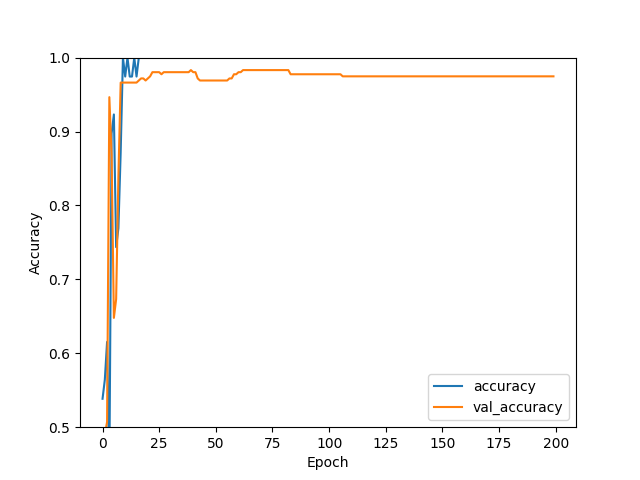
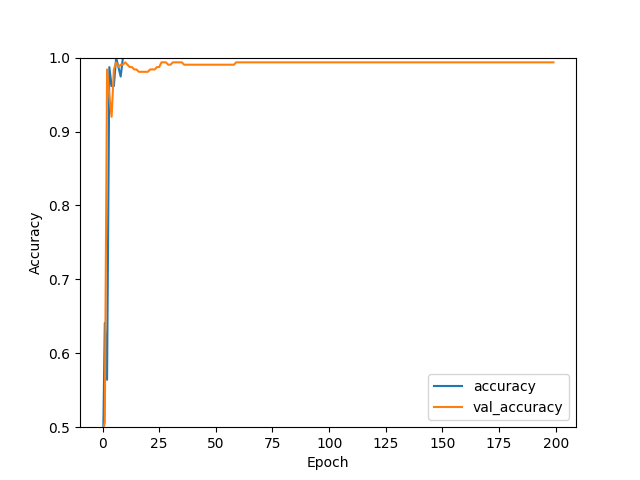
setup inapp acoustic localization

Changed region(s): [[0.1562, 0.125, 0.875, 0.9062]]

diff --git a/frontend_v1/app/src/main/java/com/example/myapplication/LabelWindow.java b/frontend_v1/app/src/main/java/com/example/myapplication/LabelWindow.java
@@ -55,7 +55,6 @@ public class LabelWindow extends Activity {
     private CyclicBarrier cyclicBarrier = new CyclicBarrier(2);
     @Override
     public void onBackPressed() {
-        System.out.println("Hey");
         if (!training) {
             super.onBackPressed();
         }
@@ -71,6 +70,7 @@ public class LabelWindow extends Activity {
         TextView building_label = (TextView) findViewById(R.id.label_of_building);
         TextView sent_label = (TextView) findViewById(R.id.sent_label);
         Button button_start = (Button) findViewById(R.id.button_submit);
+        Button button_train = (Button) findViewById(R.id.button_train);
         TextView progress = (TextView) findViewById(R.id.textView4);
 
         // get server IP
@@ -100,11 +100,13 @@ public class LabelWindow extends Activity {
             }
         }
 
-        Handler handler = new Handler();
         button_start.setOnClickListener(new View.OnClickListener() {
             @Override
             public void onClick(View v) {
                 if (!training) {
+                    if(room_label.getText().toString().trim().isEmpty() || building_label.getText().toString().trim().isEmpty()) {
+                        return;
+                    }
                     // get and set rooms label from user input
                     String label_room_text = room_label.getText().toString();
                     String label_building_text = building_label.getText().toString();
@@ -147,21 +149,39 @@ public class LabelWindow extends Activity {
 
                             new Thread(() -> {
                                 ServerCommunication.addRoom(new Room(listOfRecords, label_room_text.trim(), label_building_text.trim()), server_ip);
+                                training = false;
+                                runOnUiThread(new Runnable() {
+                                    @Override
+                                    public void run() {
+                                        progress.setText("Done!");
+                                    }
+                                });
                             }).start();
-                            runOnUiThread(new Runnable() {
-                                @Override
-                                public void run() {
-                                    progress.setText("Done!");
-                                }
-                            });
-                            training = false;
                         }
                     }).start();
 
                 }
             }
         });
-
+        button_train.setOnClickListener(new View.OnClickListener() {
+            @Override
+            public void onClick(View v) {
+                progress.setText("In progress");
+                new Thread(() -> {
+                    if (!training) {
+                        training = true;
+                        String response = ServerCommunication.startTraining(server_ip);
+                        training = false;
+                        runOnUiThread(new Runnable() {
+                            @Override
+                            public void run() {
+                                progress.setText(response);
+                            }
+                        });
+                    }
+                }).start();
+            }
+        });
         // Setup pop up layout
         DisplayMetrics displayMetrics = new DisplayMetrics();
         getWindowManager().getDefaultDisplay().getMetrics(displayMetrics);

diff --git a/server/acoustic_classifier.py b/server/acoustic_classifier.py
@@ -13,10 +13,12 @@ class AcousticClassifier:
         self.int_to_label = []
         self.model = None
         self.training_lock = Lock()
+        self.model_trained = False
 
     def train(self, test_split=0.8):
         # setup the model
         with self.training_lock:
+            room_amount = self.db.get_room_amount()
             self.model = models.Sequential()
             self.model.add(
                         layers.Conv2D(
@@ -60,13 +62,14 @@ class AcousticClassifier:
             
             self.model.add(layers.Dense(1024))
             self.model.add(layers.Dropout(0.4))
-            self.model.add(layers.Dense(self.db.get_room_amount()))
+            self.model.add(layers.Dense(room_amount))
 
             self.model.compile(optimizer='adam',
                 loss=tf.keras.losses.SparseCategoricalCrossentropy(from_logits=True),
                 metrics=['accuracy'])
 
             self.model.summary()
+            print("room amount: " + str(room_amount))
 
             
             # Split the data into training and test set
@@ -74,6 +77,8 @@ class AcousticClassifier:
             self.int_to_label = int_to_label
             images_train, images_test, labels_train, labels_test = train_test_split(images, labels, test_size=test_split, random_state=42)
 
+            print("training set size: " + str(np.size(images_train)))
+            print("test set size: " + str(np.size(images_test)))
 
             # train the model
             history = self.model.fit(images_train, labels_train, epochs=200, 
@@ -91,6 +96,10 @@ class AcousticClassifier:
 
             # Clear the plot
             plt.clf()
+
+            self.model_trained = True
+
+
     def save_model(self, filename):
         with self.training_lock:
             self.model.save('./models/' + filename)
@@ -99,10 +108,15 @@ class AcousticClassifier:
         with self.training_lock:
             self.model = models.load_model('./models/' + filename)
 
-    def run(self, sample):
+    def classify(self, sample):
         with self.training_lock:
-            label_index = self.model.predict(sample)
-            return self.int_to_label[label_index]
+            if self.model_trained:
+                weights = self.model.predict(np.array([sample,]))
+                print(weights)
+                print(self.int_to_label)
+                return self.int_to_label[np.argmax(weights)]
+            else:
+                return "Model is not trained yet"
 
 # acoustic_classifier = AcousticClassifier()
 # acoustic_classifier.train()

diff --git a/frontend_v1/app/src/main/java/com/example/myapplication/ServerCommunication.java b/frontend_v1/app/src/main/java/com/example/myapplication/ServerCommunication.java
@@ -56,6 +56,38 @@ public class ServerCommunication {
         }
     }
 
+
+    public static String startTraining(String ip) {
+        URL url = null;
+
+        try {
+            url = new URL("http://" + ip +":5000/train");
+        } catch (MalformedURLException e) {
+            return "Server error URL";
+        }
+
+        try {
+            HttpURLConnection connection = (HttpURLConnection) url.openConnection();
+            connection.setRequestMethod("GET");
+            int status_code = connection.getResponseCode();
+            if(status_code == HttpURLConnection.HTTP_OK) {
+                BufferedReader in = new BufferedReader(new InputStreamReader(connection.getInputStream()));
+                String inputLine;
+                StringBuffer response = new StringBuffer();
+
+                while ((inputLine = in.readLine()) != null) {
+                    response.append(inputLine);
+                }
+                in.close();
+                String response_string = response.toString();
+                return response_string;
+            } else return "Server returned response: " + status_code;
+        } catch (IOException e) {
+            e.printStackTrace();
+            return "Server error";
+        }
+    }
+
     public static void addRoom(Room room, String ip) {
         URL url = null;
 
@@ -75,7 +107,18 @@ public class ServerCommunication {
             connection.getOutputStream();
             DataOutputStream out = new DataOutputStream(connection.getOutputStream());
             out.writeBytes(body);
-            connection.getResponseCode();
+            int status_code = connection.getResponseCode();
+            if(status_code == HttpURLConnection.HTTP_OK) {
+                BufferedReader in = new BufferedReader(new InputStreamReader(connection.getInputStream()));
+                String inputLine;
+                StringBuffer response = new StringBuffer();
+
+                while ((inputLine = in.readLine()) != null) {
+                    response.append(inputLine);
+                }
+                in.close();
+
+            }
 
         } catch (IOException e) {
             e.printStackTrace();

diff --git a/server/server.py b/server/server.py
@@ -1,5 +1,6 @@
 from flask import Flask, request 
 from database import LocalDatabase
+from acoustic_classifier import AcousticClassifier
 from scipy.io.wavfile import write
 from scipy.io.wavfile import read
 import cv2
@@ -19,13 +20,14 @@ from datetime import datetime
 
 APP = Flask(__name__)
 db = LocalDatabase()
+acoustic_model = AcousticClassifier()
 
 interval = 0.1
 sample_rate = 44100
 chirp_amount = 200
 # amount of chirps that are ignored, since some of the last chirps dont work
 chirp_last_error = 3
-chirp_first_error = 1
+chirp_first_error = 2
 good_chirp_amount = chirp_amount - chirp_last_error - chirp_first_error
 chirp_radius = 0.016
 
@@ -87,13 +89,18 @@ def create_spectrogram(array, filename):
     not_rgb = cv2.cvtColor(rgb, cv2.COLOR_BGR2GRAY)
     cv2.imwrite(filename, not_rgb)
 
-    return rgb
-
 
 @APP.route('/get_rooms', methods=['GET'])
 def get_rooms():
 
     return db.get_buildings_with_rooms()
+
+
+@APP.route('/train', methods=['GET'])
+def train_model():
+    acoustic_model.train(0.8)
+    return "Done!"
+
 
 @APP.route('/add_room', methods=['POST'])
 def add_room():
@@ -131,13 +138,17 @@ def add_room():
 
 
 @APP.route('/recognize_room', methods=['POST'])
-def calsify_room():
+def recognize_room():
     room_data = request.json
-    room_label = room_data['room_label']
-    building_label = room_data['building_label']
     room_audio = room_data['audio']
-    #TODO: run the clasifier
-    result = 'room_1'
+    np_arr = np.asarray(room_audio, dtype=np.int16)
+    np_arr = np_arr[0, int(chirp_first_error * interval_samples): int((chirp_amount - chirp_last_error) * interval_samples)]
+    first_chirp_offset = find_first_chirp(np_arr)
+    sliced = sliced = np_arr[int( first_chirp_offset + chirp_radius_samples): int(interval_samples + first_chirp_offset - chirp_radius_samples)]
+    filename = "echo.png"
+    create_spectrogram(sliced, filename)
+    time.sleep(0.1)
+    result = acoustic_model.classify(db.get_grayscale_image(filename))
     return result
 
 if __name__ == '__main__':

diff --git a/server/database.py b/server/database.py
@@ -4,6 +4,11 @@ from PIL import Image
 
 class LocalDatabase:
 
+    def get_grayscale_image(self, path):
+        grey = Image.open(path)
+        grey = np.asarray(grey)
+        return grey
+
     def get_training_set(self):
         images = []
         labels = []
@@ -14,16 +19,16 @@ class LocalDatabase:
             for room_label in next(os.walk('./images/' + building_label))[1]:
                 # get all images for this room
                 full_path = './images/' + building_label + '/' + room_label
+                full_label = building_label + ': ' + room_label
                 files = (file for file in os.listdir(full_path) 
                         if os.path.isfile(os.path.join(full_path, file)))
                 for sample in files:
                     # get the image, create a label, and then add it to the list
                     grey = Image.open(full_path + '/' +sample)
                     grey = np.asarray(grey)
-                    full_label = building_label + ': ' + room_label
                     images.append(grey)
                     labels.append(count)
-                    int_to_label.append((count, full_label))
+                int_to_label.append(full_label)
                 count = count + 1
 
         images = np.asarray(images)

diff --git a/frontend_v1/app/src/main/java/com/example/myapplication/Globals.java b/frontend_v1/app/src/main/java/com/example/myapplication/Globals.java
@@ -3,7 +3,7 @@ package com.example.myapplication;
 public class Globals {
     public static final int CHIRP_FREQUENCY = 20000;
     public static final int REPEAT_CHIRP = 200;
-    public static final int REPEAT_CHIRP_RECOGNIZE = 1;
+    public static final int REPEAT_CHIRP_RECOGNIZE = 10;
     public static double CHIRP_DURATION = 0.002;
     public static int SAMPLE_RATE = 44100;
 
